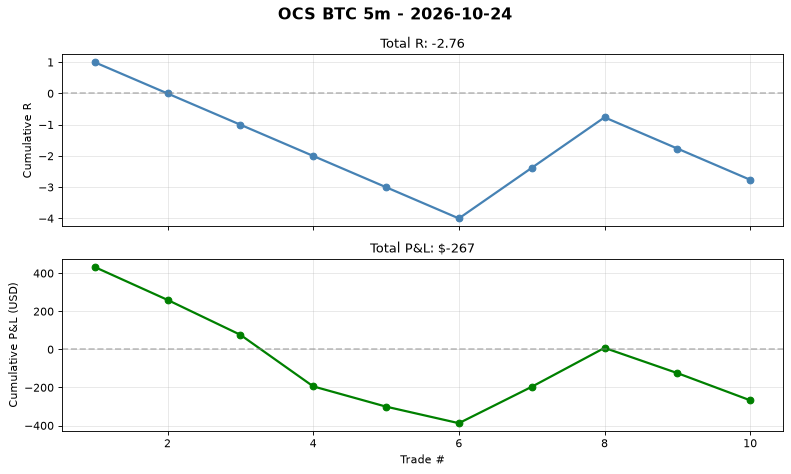
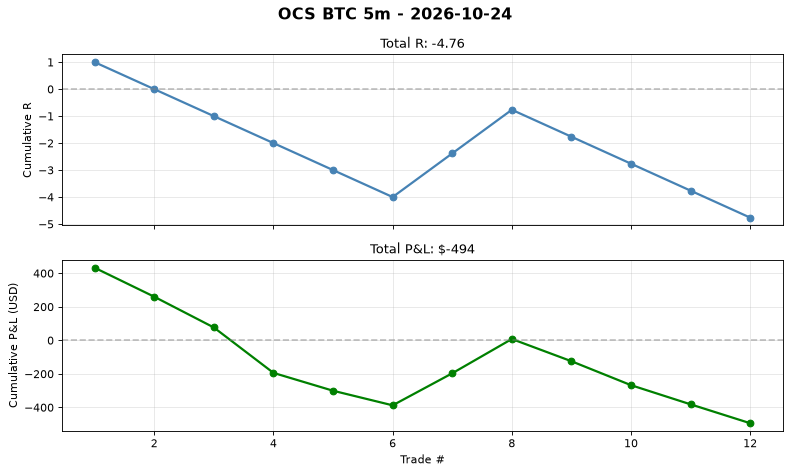
auto(ocs-btc): signal log 2026-10-23T22:28 trades=12

diff --git a/automation/reports/ocs_btc_5m/daily/2026-10-24.md b/automation/reports/ocs_btc_5m/daily/2026-10-24.md
@@ -2,4 +2,4 @@
 
 **No trades today.**
 
-Cumulative stats: 10 trades | WR 30.0% | avg R -0.276
+Cumulative stats: 12 trades | WR 25.0% | avg R -0.397
